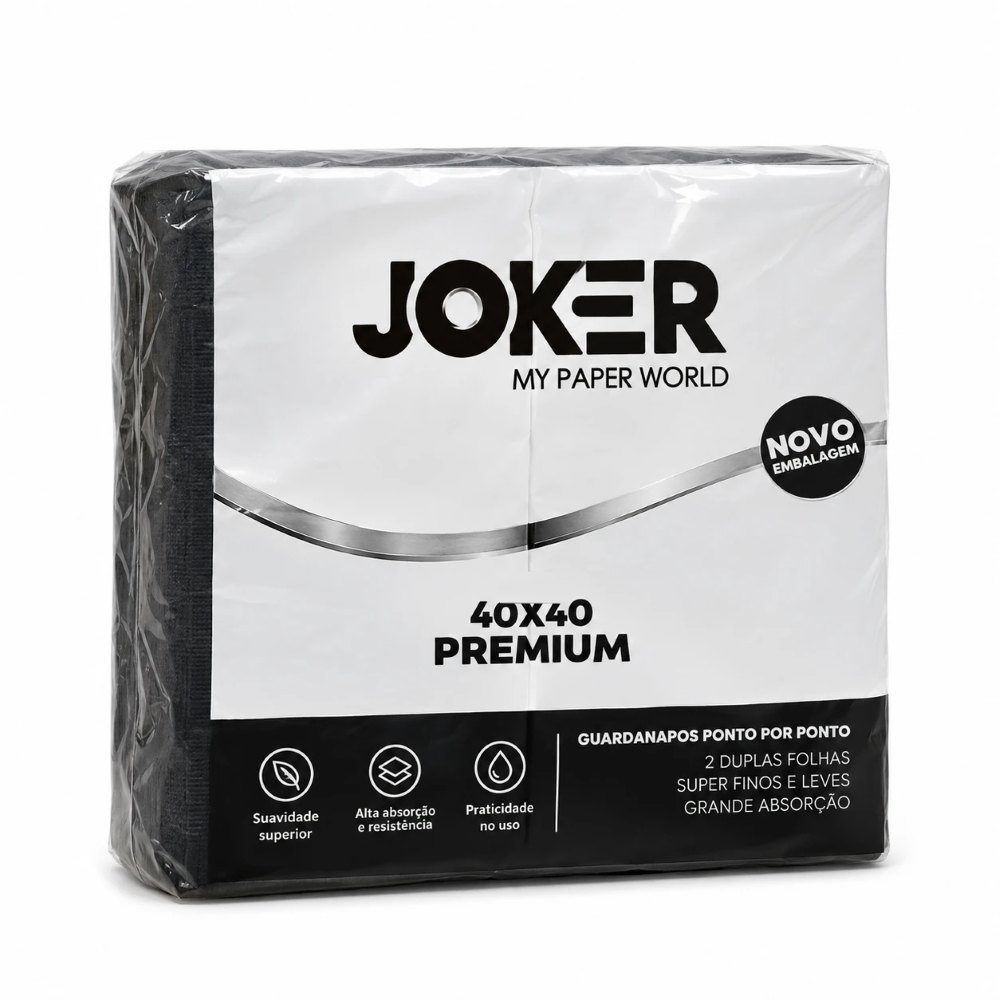
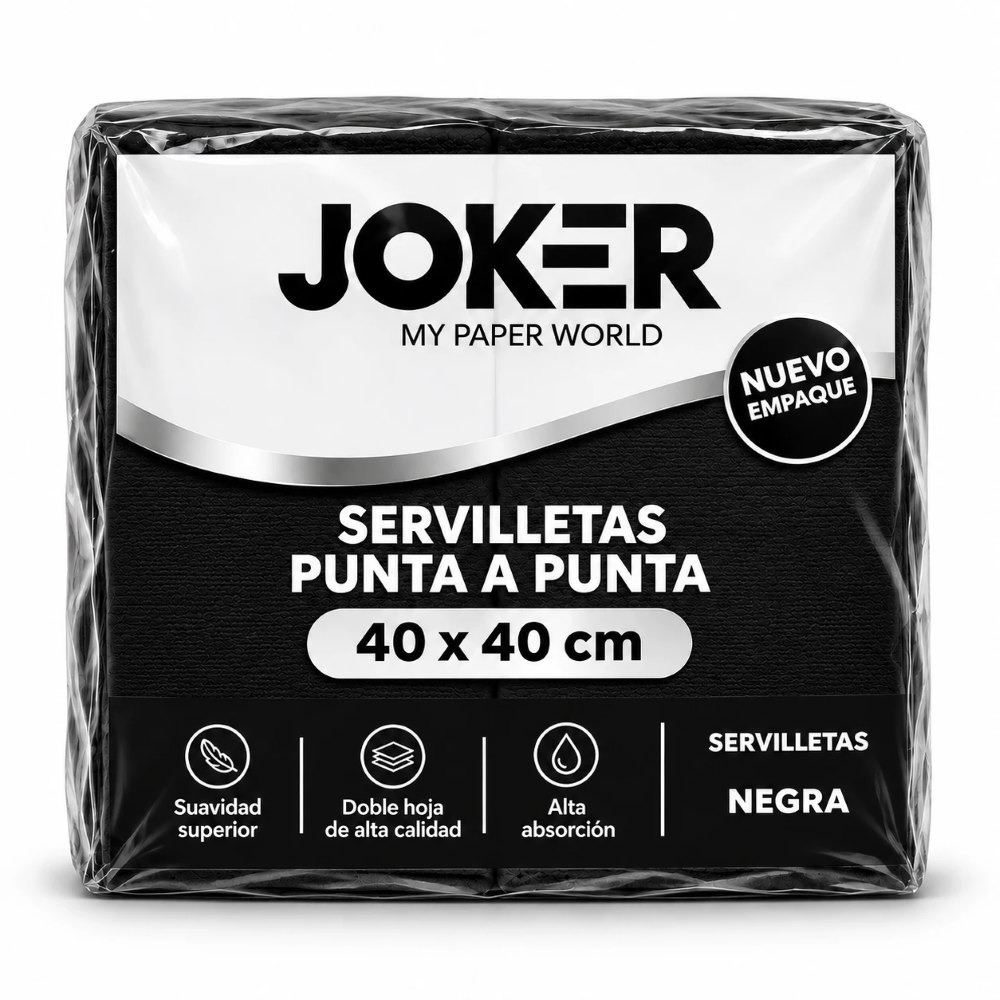
Servilletas 40 x 40: envases nuevos «Punta a Punta» y color rosa
- Fotos nuevas para blanca, negra, roja, burdeo, amarillo suave, verde y azul (OLV-SER-005…010, 012)
- Nuevo OLV-SER-013 Rosa
- Nombres «Servilleta Joker Punta a Punta 40 x 40 cm <color> (Caja 1.200 unidades)»; orden blanca, negra y luego colores

diff --git a/public/js/data-servilletas.js b/public/js/data-servilletas.js
@@ -20,7 +20,7 @@
   const nuevo = (n, nombre, sub, formato) => ({
     id: 'OLV-SER-' + n, sku: 'OLV-SER-' + n, name: nombre, brand: 'Joker',
     categoryId: CAT.id, categoryName: CAT.name, subcategoryId: sub, subcategoryName: SUB[sub],
-    // ?v=2: fotos sin la palabra «PACK» (evita que el navegador muestre la versión anterior)
+    // ?v=N: versión de la foto (evita que el navegador muestre la anterior)
     format: formato, image: 'images/products/servilletas/OLV-SER-' + n + '.jpg?v=2',
     unit: '', description: '', specs: {}
   });
@@ -28,13 +28,20 @@
   const F_37 = 'Caja 1.800 unidades · 37,5 x 33 cm';
   const F_40 = 'Caja 1.200 unidades · 40 x 40 cm';
   const s37 = (n, color) => nuevo(n, `Servilleta Joker Premium 37,5 x 33 cm ${color} (Caja 1.800 unidades)`, 'serv-37x33', F_37);
-  const s40 = (n, color) => nuevo(n, `Servilleta Joker Premium 40 x 40 cm ${color} (Caja 1.200 unidades)`, 'serv-40x40', F_40);
+  // 40 x 40 «Punta a Punta»: envases nuevos entregados por Olivo (16 nov). La foto lleva ?v=3.
+  const s40 = (n, color) => {
+    const p = nuevo(n, `Servilleta Joker Punta a Punta 40 x 40 cm ${color} (Caja 1.200 unidades)`, 'serv-40x40', F_40);
+    p.image = p.image.replace('?v=2', '?v=3');
+    return p;
+  };
   const SERVILLETAS = [
     // 37,5 x 33 cm
     s37('001', 'Blanca'), s37('002', 'Color Natural'), s37('003', 'Negra'), s37('004', 'Roja'),
-    // 40 x 40 cm
-    s40('005', 'Blanca'), s40('006', 'Amarilla'), s40('007', 'Roja'), s40('008', 'Burdeo'),
-    s40('009', 'Verde'), s40('010', 'Azul Rey'), s40('011', 'Azul Marino'), s40('012', 'Negra')
+    // 40 x 40 cm (orden: blanca, negra y luego colores)
+    s40('005', 'Blanca'), s40('012', 'Negra'), s40('007', 'Roja'), s40('008', 'Burdeo'), s40('013', 'Rosa'),
+    s40('006', 'Amarillo Suave'), s40('009', 'Verde'), s40('010', 'Azul'),
+    // Azul marino: sin envase nuevo, conserva la foto anterior
+    nuevo('011', 'Servilleta Joker Premium 40 x 40 cm Azul Marino (Caja 1.200 unidades)', 'serv-40x40', F_40)
   ];
 
   // Servilletas que ya estaban en Limpieza: pasan a esta línea (conservan su SKU y su foto).

diff --git a/public/index.html b/public/index.html
@@ -67,7 +67,7 @@
 
   <!-- Estilos de la marca OLIVO -->
   <!-- ?v= = versión: cambiarla en cada entrega para que los navegadores no usen copias viejas -->
-  <link rel="stylesheet" href="css/styles.css?v=2026-11-16-6">
+  <link rel="stylesheet" href="css/styles.css?v=2026-11-16-7">
 </head>
 <body class="bg-[#F8FAF9] text-[#1A1F1C] min-h-screen flex flex-col font-body antialiased">
 
@@ -192,9 +192,9 @@
   <div id="toastContainer" class="fixed z-50 flex flex-col gap-2 pointer-events-none no-print left-4 right-4 bottom-4 sm:left-auto sm:bottom-auto sm:top-6 sm:right-6 sm:max-w-sm" aria-live="polite"></div>
 
   <!-- DATOS Y LÓGICA -->
-  <script src="js/data.js?v=2026-11-16-6"></script>
-  <script src="js/data-servilletas.js?v=2026-11-16-6"></script>
-  <script src="js/app.js?v=2026-11-16-6"></script>
+  <script src="js/data.js?v=2026-11-16-7"></script>
+  <script src="js/data-servilletas.js?v=2026-11-16-7"></script>
+  <script src="js/app.js?v=2026-11-16-7"></script>
 
 </body>
 </html>

diff --git a/CLAUDE.md b/CLAUDE.md
@@ -74,7 +74,7 @@ Recorta el fondo, centra en 1000×1000 blanco, guarda `public/images/products/<c
 
 ## 3. Tareas pendientes para Claude Code (en orden)
 
-> **Hecho el 16 nov (3.ª ronda) — Servilletas y Hotel:** nueva línea **Servilletas** (8.ª categoría, `servilletas`) en **`public/js/data-servilletas.js`**, que se carga entre `data.js` y `app.js` (archivo aparte para que regenerar `data.js` desde el lienzo no la borre). 12 productos Joker nuevos `OLV-SER-001…012` (fotos en `images/products/servilletas/`) más las 6 servilletas que estaban en Limpieza (`OLV-ASE-011, 012, 031–034`, conservan SKU y foto). Menú lateral por medida: **37,5 x 33 cm** (caja 1.800 unidades) → **40 x 40 cm** (caja 1.200 unidades) → otras medidas (cóctel, mesa y lunch). Por pedido de Olivo no se usa la palabra «Pack» ni «1/6 / 1/8» en nombres ni formatos, y se borró «PACK» de las fotos de los envases. En Limpieza la subcategoría pasa a «Papel jumbo y papel toalla». Portada: tarjeta Servilletas a todo el ancho (`images/cat-servilletas.jpg`), textos «Ocho líneas» calculados con `lineasTexto()`, **Hotel** agregado al atajo por tipo de negocio, y el **banner 2 ya no es sushi**: es «Servilletas Joker» con fondo claro (`#FCF9F3`), muestrario `images/hero-servilletas.jpg` (solo desde 768 px; en celular se muestran 7 cuadritos de color) y botón «Cotiza con nosotros» que abre la línea Servilletas. Los puntos del carrusel cambian de color según `data-tono` del banner.
+> **Hecho el 16 nov (3.ª ronda) — Servilletas y Hotel:** nueva línea **Servilletas** (8.ª categoría, `servilletas`) en **`public/js/data-servilletas.js`**, que se carga entre `data.js` y `app.js` (archivo aparte para que regenerar `data.js` desde el lienzo no la borre). 12 productos Joker nuevos `OLV-SER-001…012` (fotos en `images/products/servilletas/`) más las 6 servilletas que estaban en Limpieza (`OLV-ASE-011, 012, 031–034`, conservan SKU y foto). Menú lateral por medida: **37,5 x 33 cm** (caja 1.800 unidades) → **40 x 40 cm** (caja 1.200 unidades) → otras medidas (cóctel, mesa y lunch). Por pedido de Olivo no se usa la palabra «Pack» ni «1/6 / 1/8» en nombres ni formatos, y se borró «PACK» de las fotos de los envases. Las 40 x 40 Joker usan los envases nuevos «Punta a Punta» (blanca, negra, roja, burdeo, rosa `OLV-SER-013`, amarillo suave, verde y azul); azul marino `OLV-SER-011` conserva la foto anterior. En Limpieza la subcategoría pasa a «Papel jumbo y papel toalla». Portada: tarjeta Servilletas a todo el ancho (`images/cat-servilletas.jpg`), textos «Ocho líneas» calculados con `lineasTexto()`, **Hotel** agregado al atajo por tipo de negocio, y el **banner 2 ya no es sushi**: es «Servilletas Joker» con fondo claro (`#FCF9F3`), muestrario `images/hero-servilletas.jpg` (solo desde 768 px; en celular se muestran 7 cuadritos de color) y botón «Cotiza con nosotros» que abre la línea Servilletas. Los puntos del carrusel cambian de color según `data-tono` del banner.
 
 > **Hecho el 12 nov — cambios pedidos por el dueño de Olivo (pantallazos):** logo solo «OLIVO»; titular «…en un solo proveedor.» con bajada para restaurantes, cafeterías y hoteles; la tarjeta «Condiciones comerciales» pasa a **«Horarios de ruta»** con la tabla de días por sector (13 sectores, ver regla 2) y la franja superior y el pie enlazan a ella («Ver días por sector», `scrollToRuta()`); en la cotización, el recuadro «Tu lista» dice «Un asesor comercial se pondrá en contacto contigo a la brevedad para enviarte la cotización y responder a tus requerimientos.» (sin horario de despacho; misma frase en la confirmación y en el correo al cliente); la etiqueta «Ver otra línea» del catálogo pasa a **«Categorías»**; se quitó de la ficha el recuadro rojo «Sin precios públicos…»; nuevo tipo de negocio «Hotel». **16 nov:** se quitó de la portada la sección «Guías para tu cocina» (las URLs SEO de guías siguen planificadas en el lienzo, pero no se muestran en el portal). En todo el sitio se dice **«asesor comercial»**, nunca «ejecutivo» (portada, catálogo, ficha, cotización, confirmación, vista del correo y correo al cliente). **WhatsApp revisado (16 nov):** 4 botones, todos a `wa.me/56977236128` (en WhatsApp aparece como «Olivo»): (1) confirmación «Enviar solicitud por WhatsApp», va primero bajo el título, con el mensaje completo (código, contacto, teléfono, correo, local, RUT, sector, tipo de negocio, productos «cantidad × nombre [SKU]» hasta 30 y comentarios); (2) catálogo sin resultados «Pedirlo por WhatsApp» con el término buscado; (3) «¿Ya tienes tu lista de compras?» y (4) pie, con el saludo `WA_SALUDO` («Hola Olivo, vengo del portal mayorista…») para que Olivo sepa que el contacto viene del portal. Probado en escritorio y celular; en celular los avisos salen abajo y a lo ancho. **WhatsApp (16 nov, 2.ª ronda):** el mensaje va en bloques (*SOLICITUD DE COTIZACIÓN*, código, *DATOS DEL CLIENTE*, *PRODUCTOS* numerados «nombre — *cantidad* un. (SKU)», *COMENTARIOS*). Los enlaces salen de `waUrl()`: en celular `wa.me` (abre la app directo); en computador `web.whatsapp.com/send` (evita la página intermedia «Abrir aplicación / Continuar en WhatsApp Web»; si el cliente no tiene sesión en WhatsApp Web, primero le pide escanear el QR). El enlace del pie se ajusta al iniciar (`#footerWhatsapp`). **Atajo por tipo de negocio (16 nov):** solo Restaurante, Cafetería y Local de sushi (`BIZ` en `app.js`); se quitaron Pizzería y Minimarket. El formulario de cotización mantiene su lista completa de tipos de negocio. **Versión de archivos:** `index.html` carga `css/styles.css`, `js/data.js` y `js/app.js` con `?v=AAAA-MM-DD`; **cambiar esa fecha en cada entrega** para que los navegadores (y producción tras subir a cPanel) no usen copias viejas. **Ver el portal en local:** siempre por `http://localhost:5180` (servidor «olivo-portal» de `.claude/launch.json`); abrir `public/index.html` como archivo no carga el código y la página sale vacía. **Flujo de trabajo:** al terminar cada ronda de cambios se hace commit y push a GitHub (`origin/main`); otra persona sube los cambios a producción (cPanel) desde el repositorio. **WhatsApp:** la confirmación muestra «Enviar solicitud por WhatsApp», que abre `wa.me/56977236128` con el mensaje armado (código, datos del cliente, sector, productos con SKU y comentarios); el cliente solo presiona Enviar. Un envío 100 % automático (sin que el cliente toque nada) requiere la API oficial de WhatsApp Business (Meta) con cuenta de Olivo: pendiente de decisión. **Para producción (cPanel):** subir `index.html`, `js/app.js` y `api/cotizar.php`.
 
